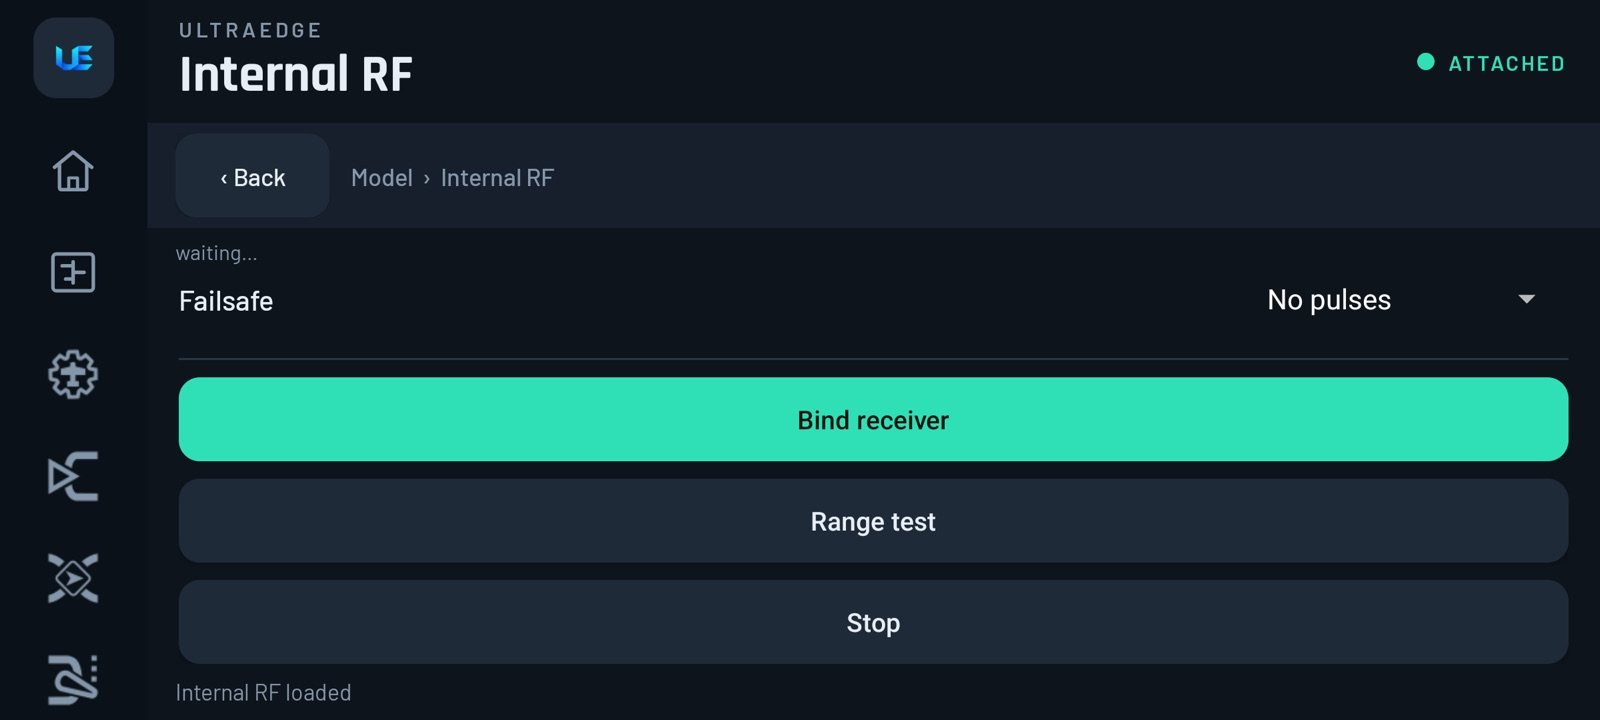
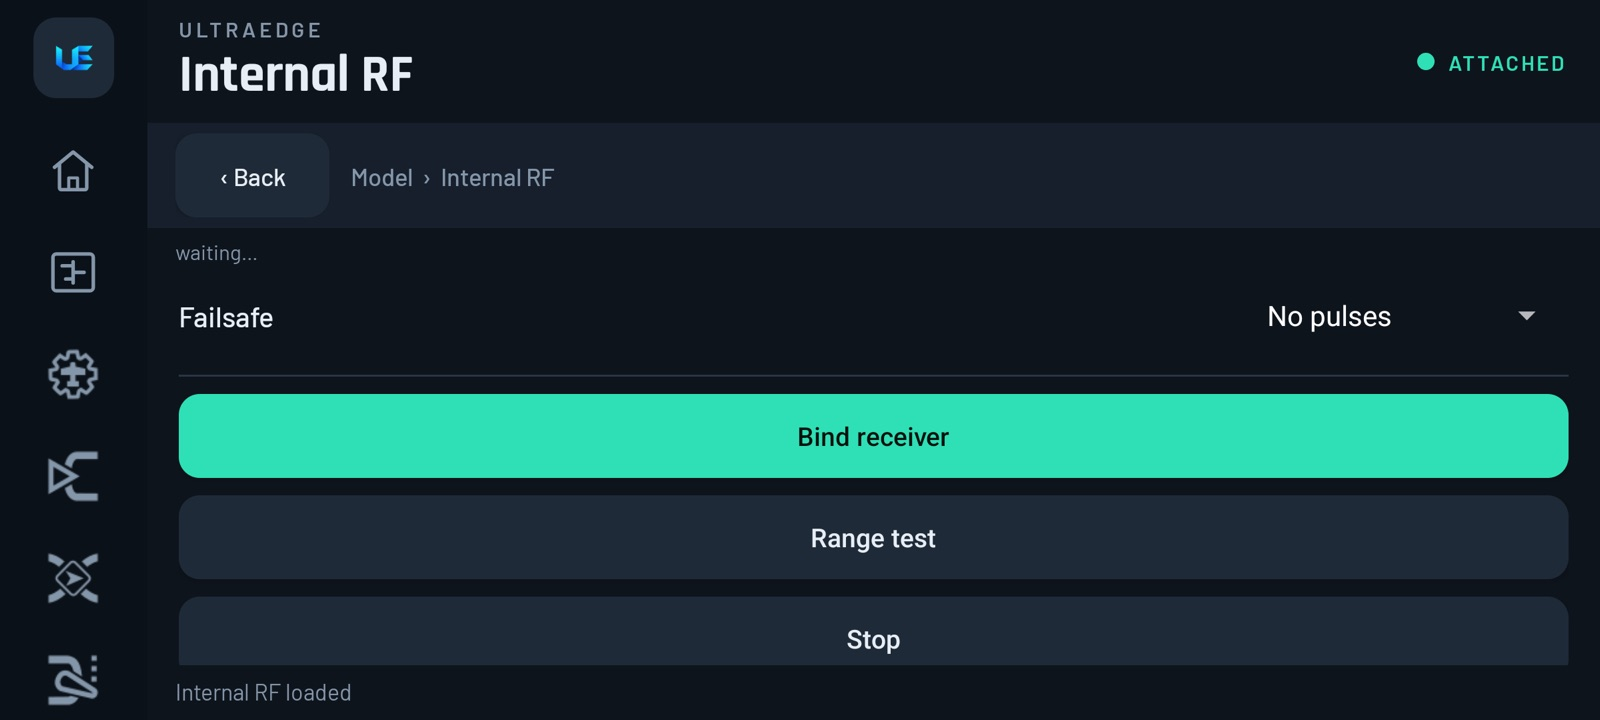
User Manual: Model › Pre-flight checks (throttle + switch warnings), trainer mode, timer switch

Changed region(s): [[0.0938, 0.5194, 1.0, 0.9167], [0.7812, 0.3972, 0.875, 0.4583], [0.0938, 0.3972, 0.1875, 0.4583]]

diff --git a/UserManual/05-model-setup.md b/UserManual/05-model-setup.md
@@ -12,7 +12,8 @@ a different model, switch to it first (see [Models & backups](10-models-and-back
 | **Model name** | Edit in place | Up to the radio's name length |
 | **Timer 1 / 2 / 3** | Timer page | Name, Mode, **Switch**, Start, Minute beep, Countdown, Persistent, Direction |
 | **Trims** | Trims page | Trim increment, Display trims, Extended trims |
-| **Throttle** | Throttle page | Reversed, Trim (idle-only throttle trim), **Warning** (the "throttle not idle" check at power-on) |
+| **Throttle** | Throttle page | Reversed, Trim (idle-only throttle trim) |
+| **Pre-flight checks** | Pre-flight page | **Throttle warning**, custom throttle position, and the **position each switch must be in** at power-on |
 | **Other** | Other page | ADC jitter filter |
 | **Internal RF / External RF** | Module page | Type, RX channels, First channel, **Failsafe**, plus **Bind receiver / Range test / Stop** |
 | **Trainer** | Trainer page | **Mode** (master/slave and how the radios connect), plus PPM settings for Slave/Jack |
@@ -46,12 +47,32 @@ a call every minute, and **Persistent** to keep the time across power cycles (*F
 
 - **Reversed**: for radios or pilots who use a reversed throttle stick.
 - **Trim**: idle-only trim. The throttle trim adjusts idle without moving full throttle (planes and helis).
-- **Warning**: the "Throttle not idle" check at power-on. Leave it **on** for anything with a propeller.
+
+## Pre-flight checks
+
+EdgeTX's *Pre-start checks*: what the radio insists on before it starts sending to the model. When you switch the
+radio on, or select this model, and something is in the wrong position, the radio shows a warning and waits until you
+fix it. That stops a model from starting up armed or at full throttle.
+
+![Model › Pre-flight checks](media/model-preflight.jpg)
+
+| Row | Meaning |
+|---|---|
+| **Throttle warning** | Warn if the throttle isn't at idle. Leave it **on** for anything with a propeller. |
+| **Custom throttle position** / **Throttle position** | Warn unless the throttle is at *this* position instead of idle (for example 0% on a centre-sprung throttle) |
+| **SA, SB, SC…** (one row per switch) | **No check**, or the position (**Up / Middle / Down**) the switch must be in. 2-position switches have no Middle. |
+| **Use current switch positions** | Put the switches where they should be, then tap this. Every switch that has a check takes its current position. |
+
+> [!TIP]
+> **Quads:** give your **arm switch** a check in its *disarmed* position. Then the radio won't start sending while
+> you're armed, which is the classic "props spin at power-on" accident. Do the same for a throttle-cut switch on a
+> plane (*cut* position).
 
 > [!NOTE]
-> **The throttle warning only checks the throttle *stick*.** Arming is handled by your arm switch and the flight
-> controller. For a quad, an arm switch with Betaflight's *Arm* mode (see
-> [arm switch recipe](13-recipes.md#arm-switch-for-betaflight--inav-aux1--ch5)) does the real protecting.
+> **EdgeTX ↔ UltraEdge:** this is EdgeTX's switch-warning row. Each switch gets a clear Up/Middle/Down choice instead
+> of cycling letters with the scroll wheel, and "use current positions" replaces the long-press of ENTER. The throttle
+> warning only checks the throttle *stick*. Arming is handled by your arm switch and the flight controller (see the
+> [arm switch recipe](13-recipes.md#arm-switch-for-betaflight--inav-aux1--ch5)).
 
 ## RF modules: binding, range check and failsafe
 

diff --git a/UserManual/README.md b/UserManual/README.md
@@ -7,10 +7,10 @@ screen.
 
 ![The UltraEdge Home screen](media/home.jpg)
 
-> **Which version?** This manual covers **UltraEdge v1.2** (app 1.2.25+, firmware 1.1.13+), which is in beta testing
+> **Which version?** This manual covers **UltraEdge v1.2** (app 1.2.26+, firmware 1.1.14+), which is in beta testing
 > now. If you have the current Google Play release (app 1.2.13, firmware 1.1.2), most pages still apply. These parts
 > arrive with v1.2: companion-only builds for Pocket/Zorro/QX7, **My Radios**, the built-in **flight-log viewer** and
-> automatic log copying, **Model › Trainer**, the **timer switch**, curve presets/mirror, the response preview, and the
+> automatic log copying, **Model › Trainer**, the **timer switch**, **pre-flight switch checks**, curve presets/mirror, the response preview, and the
 > radio's own Special Function list.
 >
 > If you already fly EdgeTX, the manual
@@ -55,6 +55,7 @@ screen.
 | Turn on **flight logging** and see the flight on a map | [Flight logs](11-flight-logs.md) |
 | Back up a model or **copy it to another radio** | [Models & backups](10-models-and-backups.md) |
 | **Calibrate** sticks and pots | [Calibration](09-radio-settings.md#calibration) |
+| Stop the model starting **armed / at full throttle** (switch & throttle warnings) | [Pre-flight checks](05-model-setup.md#pre-flight-checks) |
 | Use a **buddy box / trainer** | [Recipe: trainer](13-recipes.md#trainer--buddy-box) · [Model › Trainer](05-model-setup.md#trainer-buddy-box) |
 
 ## How these images were made

diff --git a/UserManual/14-troubleshooting-faq.md b/UserManual/14-troubleshooting-faq.md
@@ -46,7 +46,8 @@
 
 | Headache | What to do in UltraEdge |
 |---|---|
-| **"Throttle not idle" at every power-on** | Lower the throttle, or (only if you know why) turn off **Model › Throttle › Warning**. Make sure the throttle isn't reversed by mistake (**Throttle › Reversed**). |
+| **"Throttle not idle" at every power-on** | Lower the throttle, or (only if you know why) turn off **Model › Pre-flight checks › Throttle warning**. Make sure the throttle isn't reversed by mistake (**Model › Throttle › Reversed**). |
+| **"Switch warning" at power-on** | A switch isn't where the model expects. Move it, or change the expected position in **Model › Pre-flight checks** (or set *No check*). |
 | **"Failsafe not set" warning** | **Model › Internal/External RF › Failsafe**: choose a setting. See the [failsafe recipe](13-recipes.md#failsafe). |
 | **Switches don't reach Betaflight** | Every switch needs a **mix onto a channel**. See the [arm switch recipe](13-recipes.md#arm-switch-for-betaflight--inav-aux1--ch5). Check in **Monitor** that the channel moves. |
 | **A servo goes the wrong way** | **Outputs › Inverted** on that channel. |

diff --git a/UserManual/15-safety-and-limits.md b/UserManual/15-safety-and-limits.md
@@ -22,7 +22,7 @@ radio. On **companion builds** (Pocket, Zorro, QX7) they keep their current valu
 | Setting | Status | Workaround |
 |---|---|---|
 | **Bluetooth trainer pairing** (scan / connect) | Radio-side (TX16S) | The trainer *mode* is set in Model › Trainer |
-| **Pre-flight checks** for switches and pots (positions at power-on) | Planned | The throttle warning is available (Model › Throttle › Warning) |
+| Pre-flight checks for **pots and sliders** | Planned | Throttle and switch checks are in Model › Pre-flight checks |
 | GVar **values per flight mode** | Planned (shown read-only) | Change them in flight with an **Adjust** special function |
 | Trim **values** | By design: set with the trim buttons | Trim *modes* per flight mode are editable |
 | Telemetry sensor **alarm thresholds** (EdgeTX's RSSI alarms) | Planned | Logical switch + Play Track/Haptic (see [recipe](13-recipes.md#low-battery--link-quality-warning)) |

diff --git a/UserManual/13-recipes.md b/UserManual/13-recipes.md
@@ -45,7 +45,8 @@ flight controller. That is the number-one "my arm switch doesn't work" cause.
 > **ExpressLRS expects arm on CH5 (AUX1).** Leave it there; ELRS sends CH5 at full rate and uses it for its own
 > armed-state behaviour.
 
-Name the switch **ARM** under **System › Switches** so it reads clearly everywhere. Add a call-out:
+Name the switch **ARM** under **System › Switches** so it reads clearly everywhere. Then give it a power-on check in
+its disarmed position (**Model › Pre-flight checks**, see [Model setup](05-model-setup.md#pre-flight-checks)). Add a call-out:
 [voice call-outs on a switch](#voice-call-outs-on-a-switch).
 
 ## Failsafe
